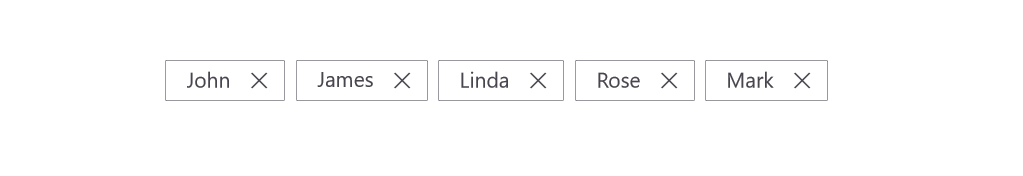
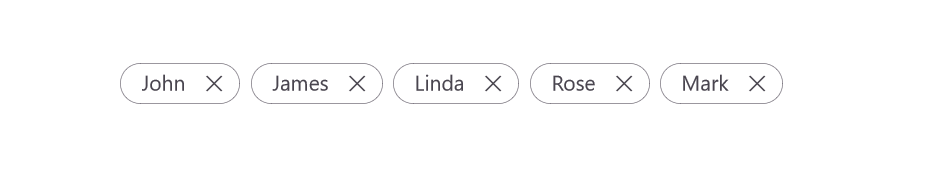
Addressed the comments

Changed region(s): [[0.1208, 0.3125, 0.8457, 0.5966]]

diff --git a/maui-toolkit/Chips/Customization.md b/maui-toolkit/Chips/Customization.md
@@ -1263,7 +1263,7 @@ The [ChipCornerRadius](https://help.syncfusion.com/cr/maui/Syncfusion.Maui.Core.
     <StackLayout Margin="10,10,10,10">
         <ChipControl:SfChipGroup ItemsSource="{Binding Employees}"
                                  DisplayMemberPath="Name"
-                                 ChipCornerRadius="1">
+                                 ChipCornerRadius="20">
         </ChipControl:SfChipGroup>
     </StackLayout>  
 </ContentPage.Content>
@@ -1279,7 +1279,7 @@ stack.Children.Add(chipGroup);
 this.BindingContext = new ViewModel();
 chipGroup.SetBinding(SfChipGroup.ItemsSourceProperty, "Employees");
 chipGroup.DisplayMemberPath = "Name";
-chipGroup.ChipCornerRadius = 1;
+chipGroup.ChipCornerRadius = 20;
 this.Content = stack;
         
 {% endhighlight %}
@@ -1288,7 +1288,7 @@ this.Content = stack;
 
 ![SfChipGroup with ChipCornerRadius](images/customization-images/chipgroup_chipcornerradius_image.png)
 
-N> N> The default value of CornerRadius is [`Thickness(8)`]. When using ItemTemplate in SfChipGroup, to modify the corner radius of each chip, set the ChipCornerRadius of the SfChipGroup to avoid extra borders.
+N> The default value of ChipCornerRadius is [`Thickness(8)`]. When using ItemTemplate in SfChipGroup, to modify the corner radius of each chip, set the ChipCornerRadius of the SfChipGroup to avoid extra borders.
 
 ## ChipTextSize
 
